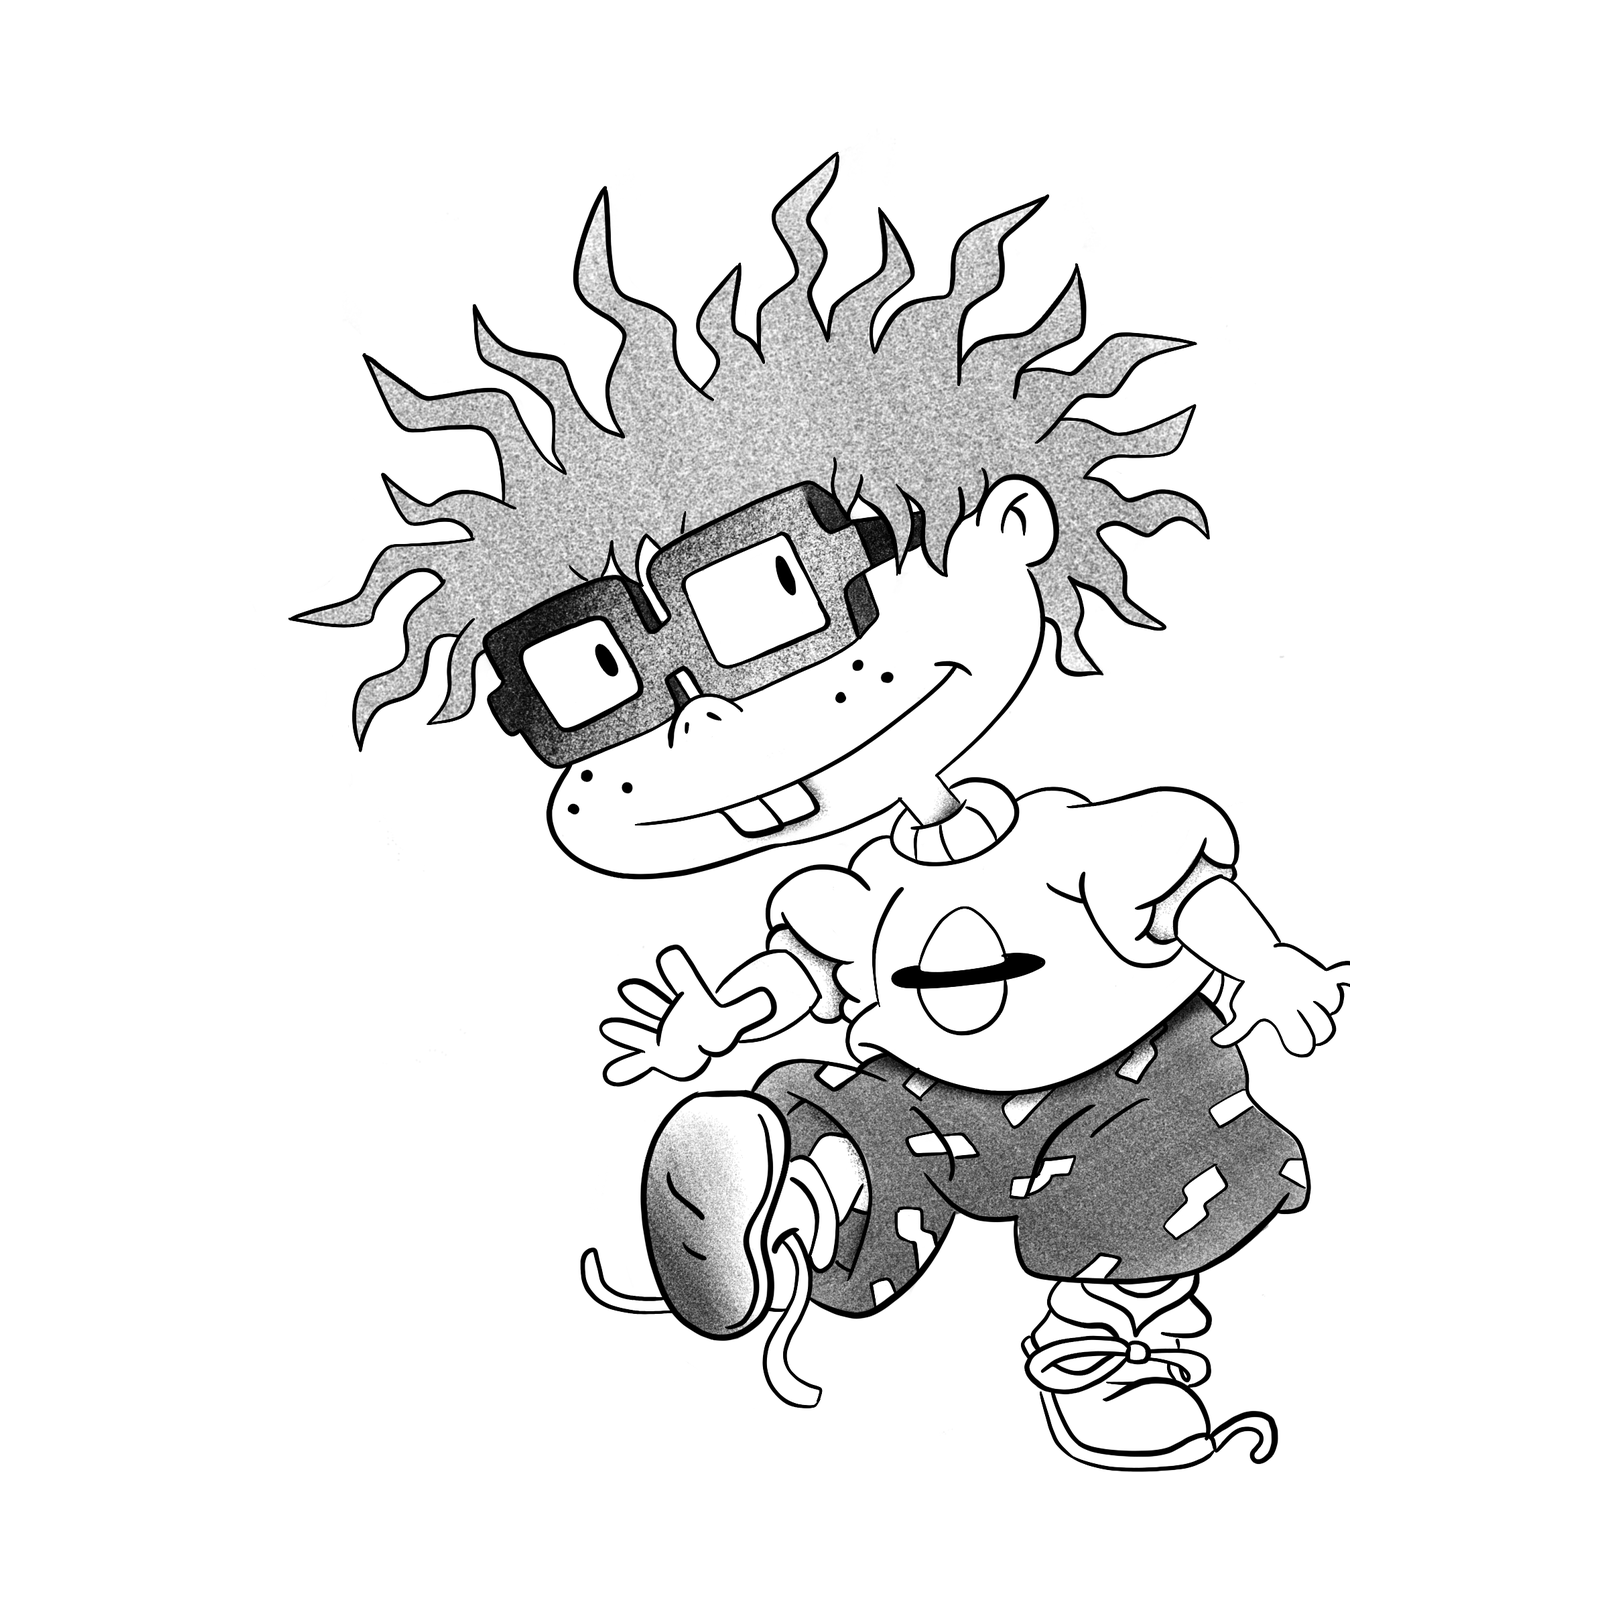
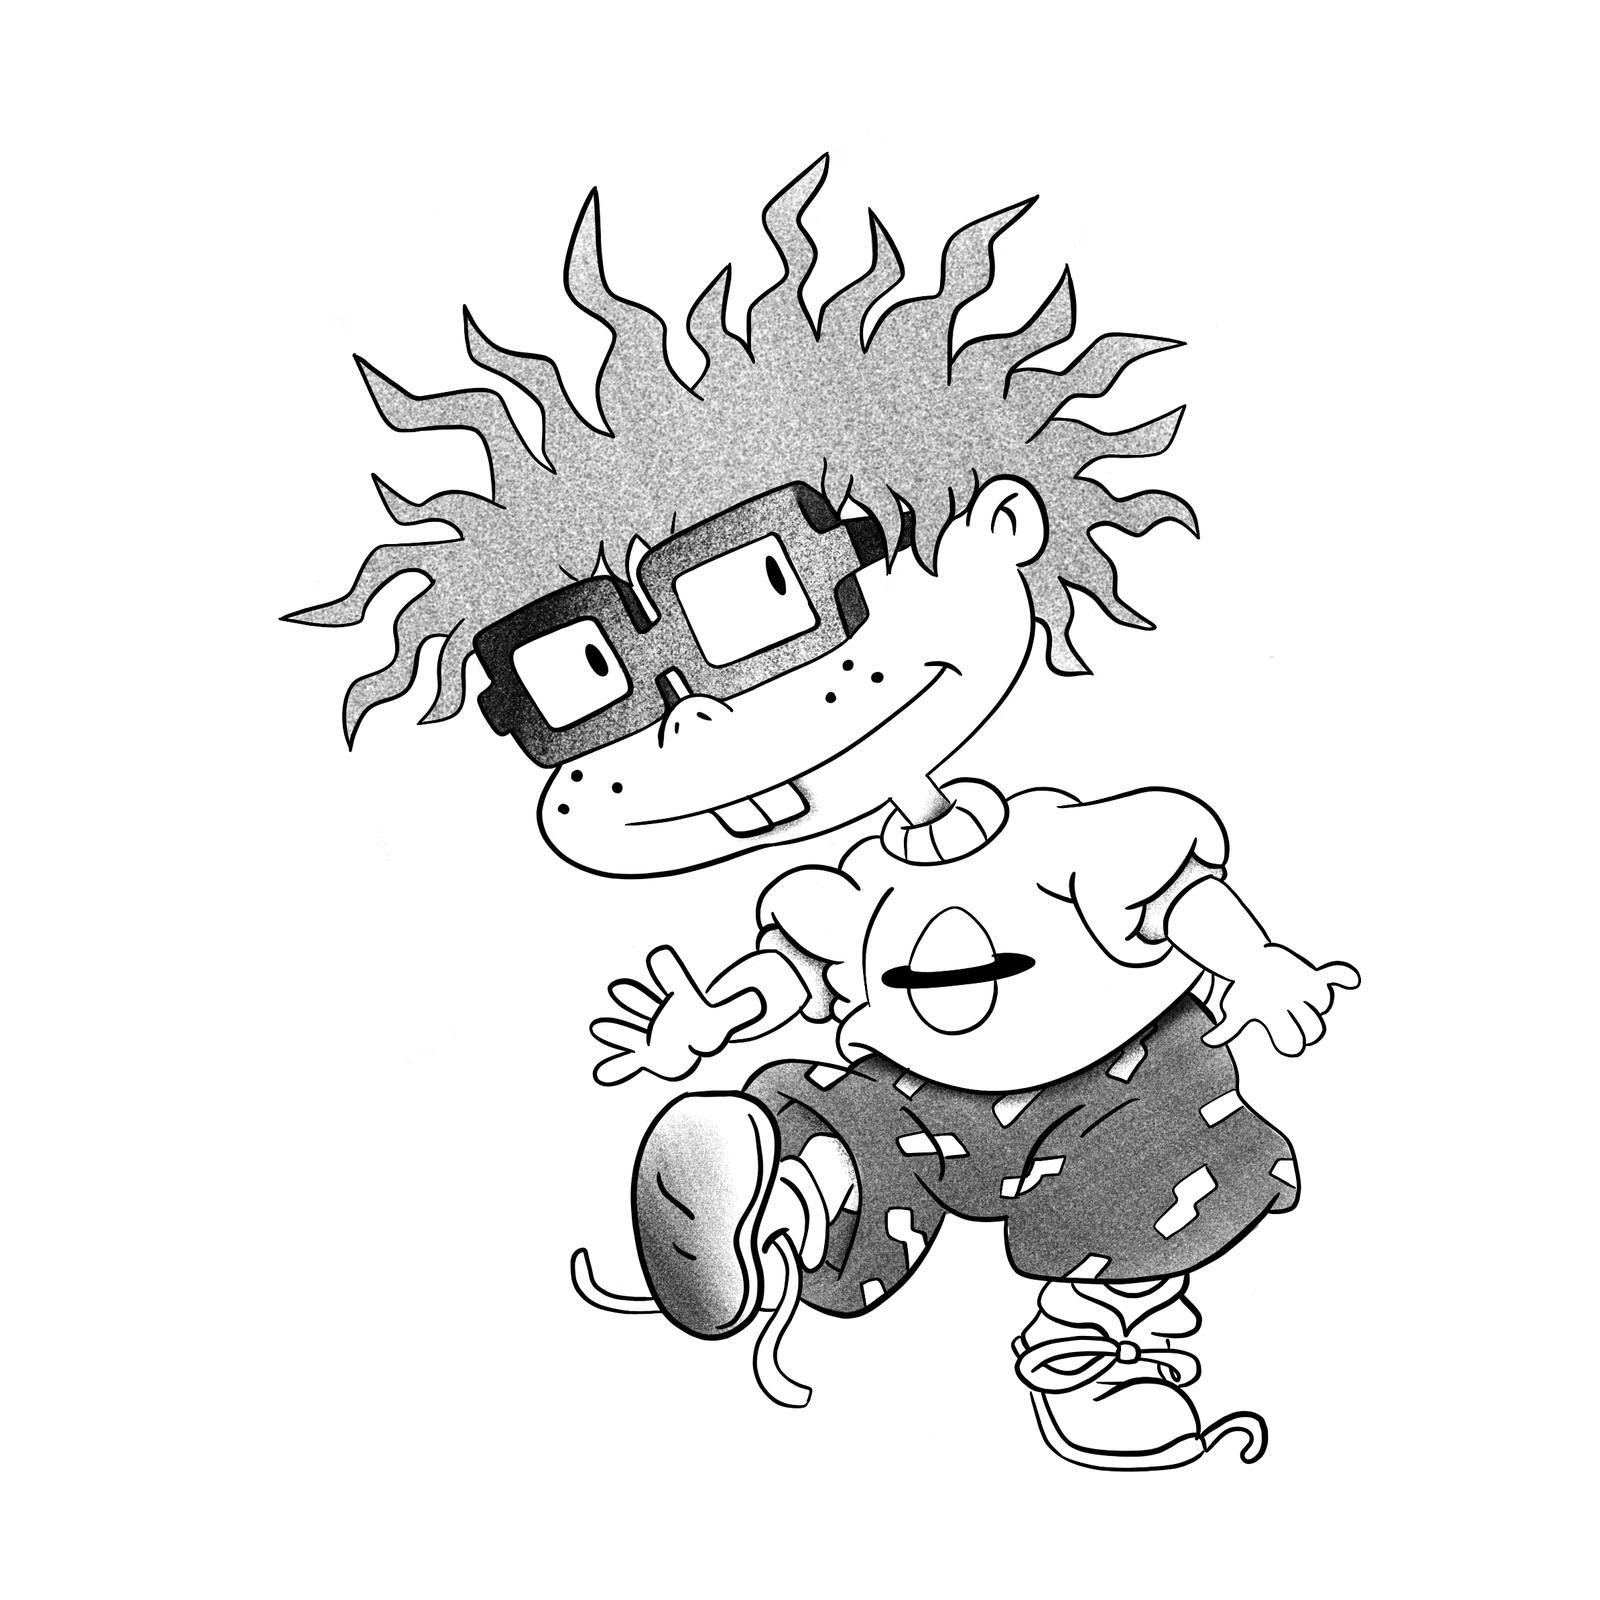
Isoler les flashs personnages et actualiser les images

Changed region(s): [[0.1875, 0.0938, 0.75, 0.5625], [0.3438, 0.4375, 0.8438, 0.9375], [0.7812, 0.5625, 0.8125, 0.5938]]

diff --git a/src/data/flashSeptemberPublished.ts b/src/data/flashSeptemberPublished.ts
@@ -7,6 +7,7 @@ import { flashSeptemberMetadataBySlot } from "./flashSeptemberMetadata";
 export const FLASH_SEPTEMBER_PUBLISHED_FLASH_COUNT = 330;
 export const FLASH_SEPTEMBER_LEGACY_FLASH_COUNT = Object.keys(flashSeptemberMetadataBySlot).length;
 export const FLASH_SEPTEMBER_METADATA_VERSION = 2;
+export const FLASH_SEPTEMBER_ASSET_VERSION = "2026-09-17-clean-2";
 
 export const flashSeptemberPublishedFlashs: SeptemberFlash[] = Array.from(
   { length: FLASH_SEPTEMBER_PUBLISHED_FLASH_COUNT },
@@ -27,7 +28,7 @@ export const flashSeptemberPublishedFlashs: SeptemberFlash[] = Array.from(
       status: "Disponible",
       description: metadata.description ?? "Modèle disponible pour les Journées flashs.",
       image: {
-        src: `/flash-septembre/flashes/${file}`,
+        src: `/flash-septembre/flashes/${file}?v=${FLASH_SEPTEMBER_ASSET_VERSION}`,
         alt: `Flash ${reference}`,
       },
     };
